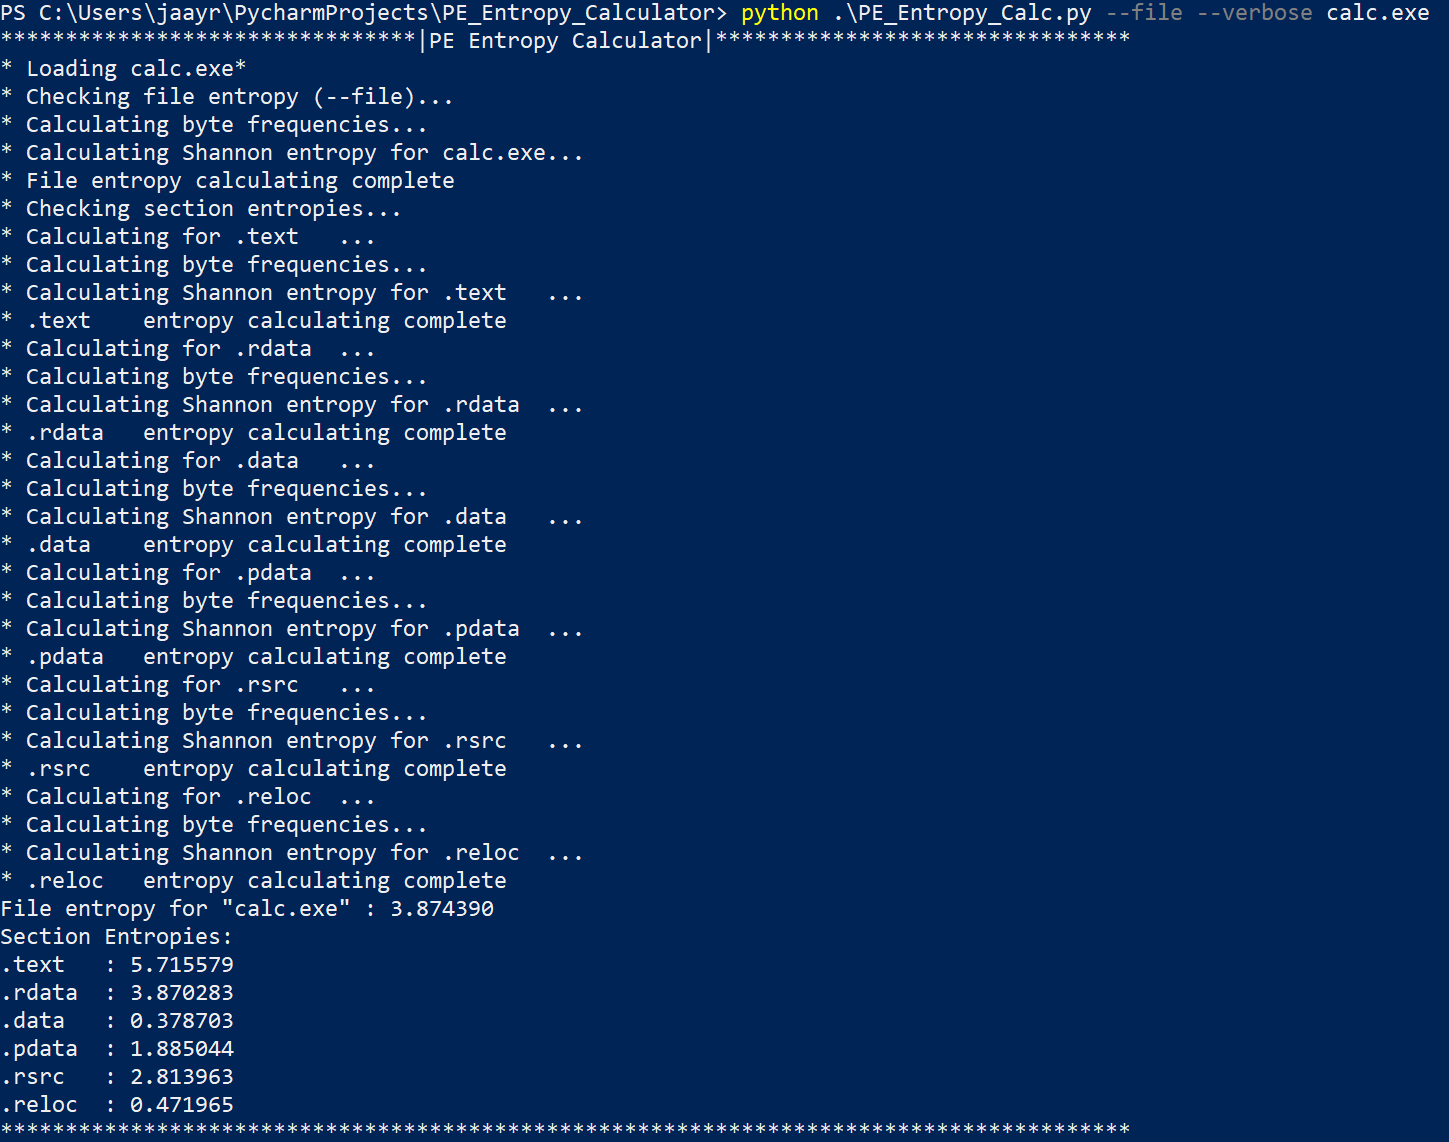
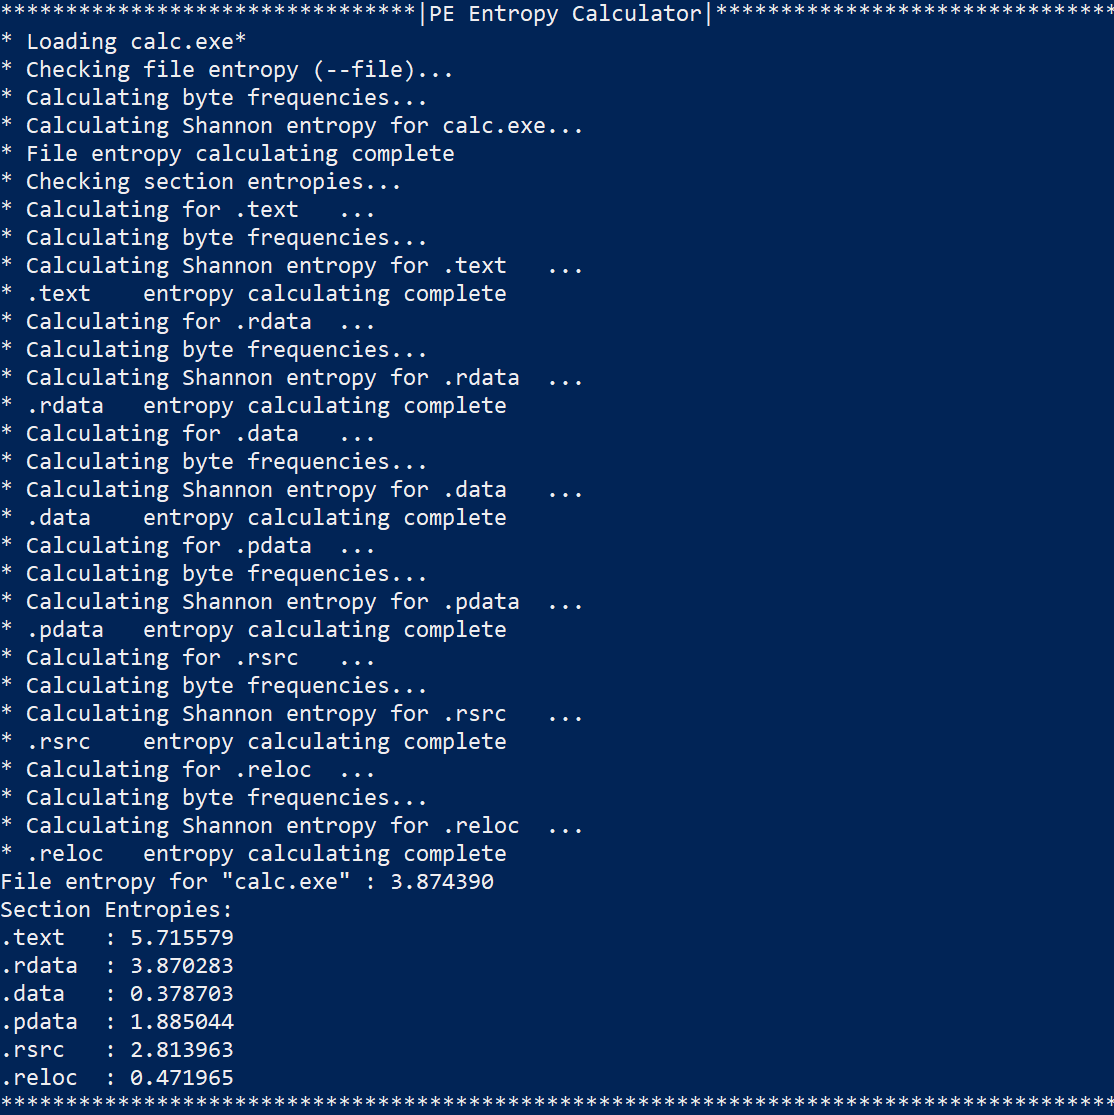
Edited project picture
Edited PE_Calc_All aspect ratio and added it as the project's picture

Changed region(s): [[0.0, 0.0, 1.0, 1.0]]

diff --git a/projects/project-4.md b/projects/project-4.md
@@ -1,7 +1,7 @@
 ---
 layout: project
 type: project
-image: images/PE_Calc_Description.png
+image: images/PE_Calc_All.png
 title: PE Section Entropy Calculator
 permalink: projects/PE-Section-Entropy-Calculator
 # All dates must be YYYY-MM-DD format!
